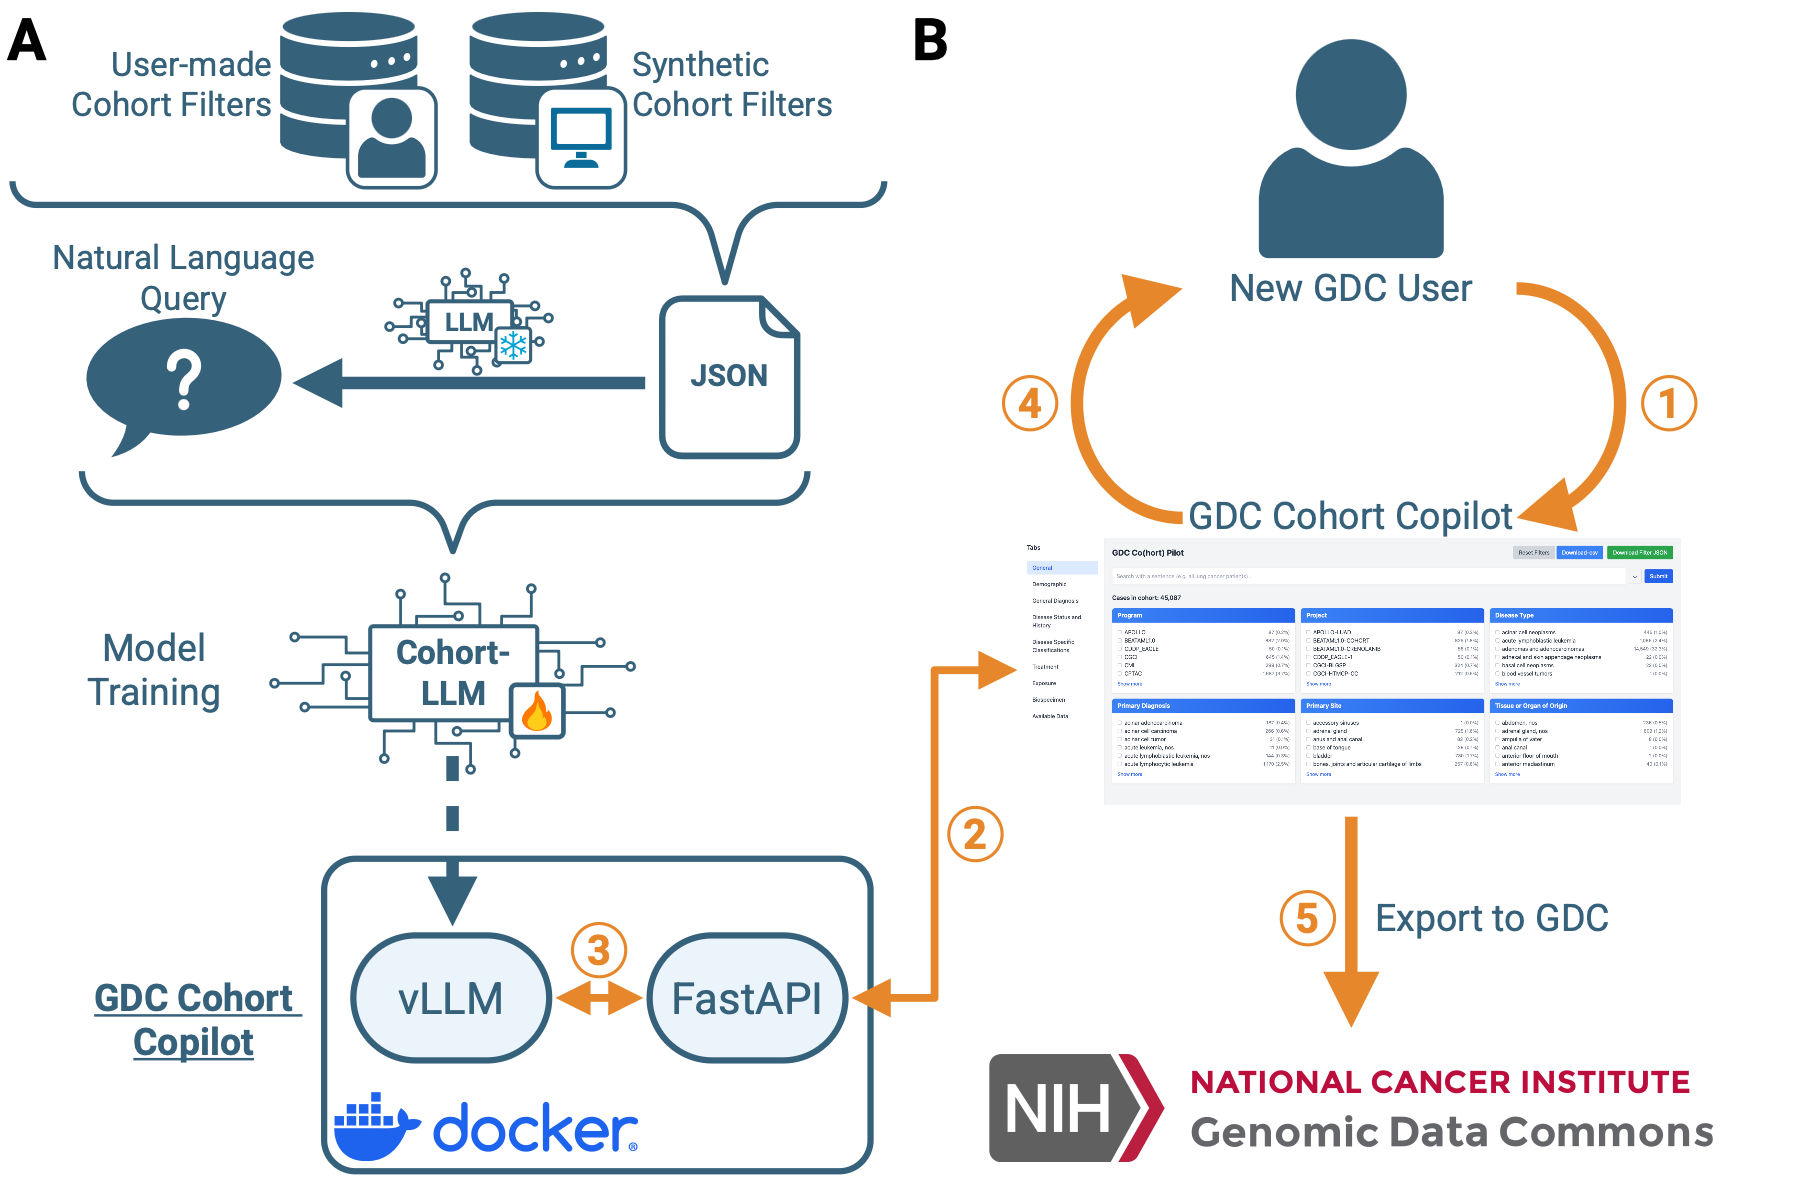
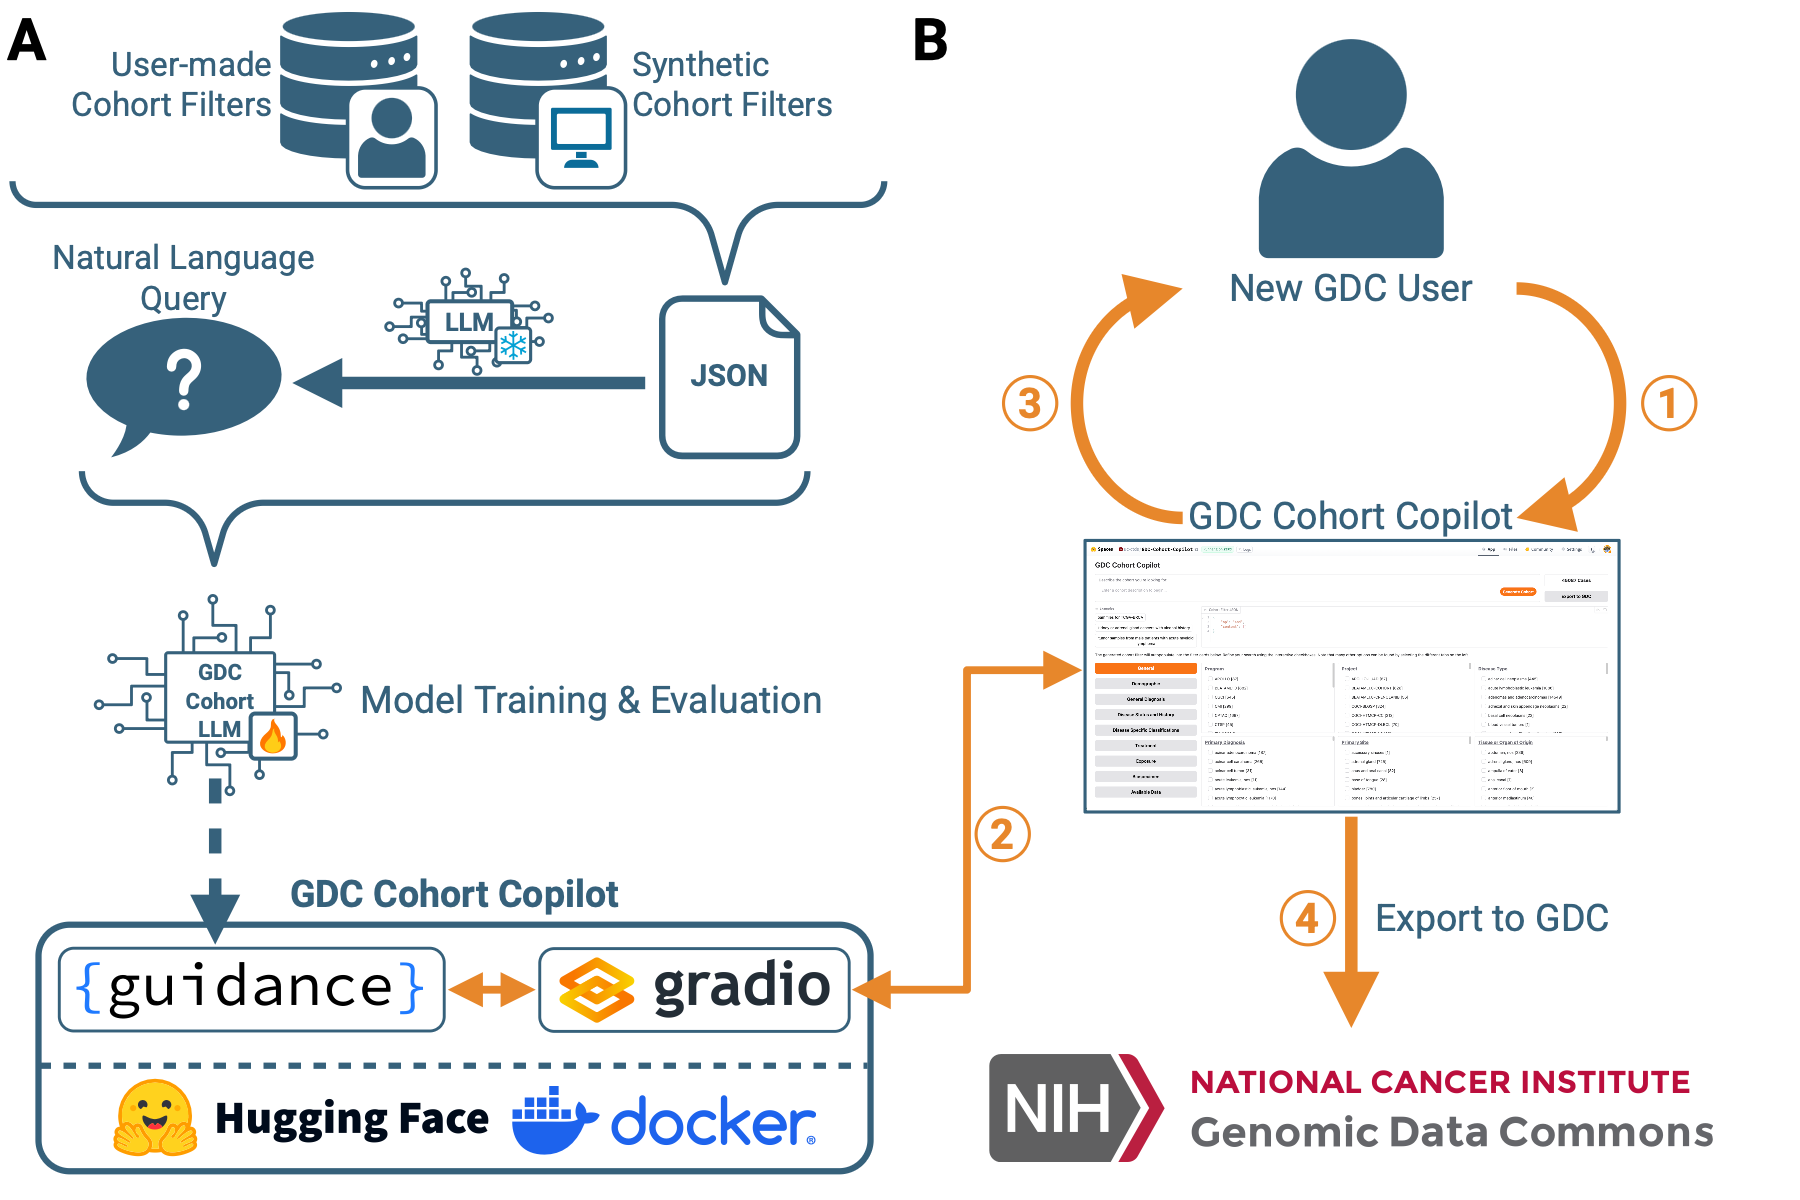
update docs

diff --git a/README.md b/README.md
@@ -1,21 +1,33 @@
 # GDC Cohort Copilot
 
-**GDC Cohort Copilot** is an AI copilot tool to assist in the curation of cohorts from the NCI GDC using natural language. We share GDC Cohort Copilot as a containerized web app backed by a locally served LLM. The container is available at: [https://quay.io/repository/cdis/gdc-cohort-copilot](https://quay.io/repository/cdis/gdc-cohort-copilot).
+**GDC Cohort Copilot** is an AI copilot tool to assist in the curation of cohorts from the NCI GDC using natural language. We share GDC Cohort Copilot as a containerized Gradio app on HuggingFace Spaces available at: [https://huggingface.co/spaces/uc-ctds/GDC-Cohort-Copilot](https://huggingface.co/spaces/uc-ctds/GDC-Cohort-Copilot).
 
-We recommend using `docker` to run the GDC Cohort Copilot container. Run the command below before opening http://localhost:8000 in a web browser:
-```bash
-docker run -it --rm -p 8000:8000 --runtime nvidia --gpus all quay.io/cdis/gdc-cohort-copilot:latest
+The implementation of the web app can be found in the git submodule at: [`app`](./app)
+
+### Run Locally
+
+The containerized Gradio app can be run locally using `docker`. The docker image is available at the following URL:
+```
+registry.hf.space/uc-ctds-gdc-cohort-copilot
 ```
 
-* Our image requires GPU acceleration to run:
-    * Install [nvidia-container-toolkit](https://docs.nvidia.com/datacenter/cloud-native/container-toolkit/latest/install-guide.html) if not already installed.
-    * Please refer to the `docker run` documentation on [accessing GPUs](https://docs.docker.com/reference/cli/docker/container/run/#gpus) for additional details.
-* Any additional arguments after the image name are passed to `vllm serve`. The only limitation is that the vLLM model and port arguments should not be overridden.
-* The app runs on port `8000` within the container, however if port `8000` is occupied on the host, you can remap it. Refer to the `docker run` documentation on [host/container port mapping](https://docs.docker.com/reference/cli/docker/container/run/#publish) for details.
+To run the app locally, run the following before opening `http://localhost:7860` in a web browser:
+```bash
+docker run -it --rm -p 7860:7860 registry.hf.space/uc-ctds-gdc-cohort-copilot:latest python app.py
+```
+* The app runs on port `7860` within the container, however if this port is occupied on the host, the port can be remapped on the host using the `p` flag. Refer to the `docker run` documentation on [host/container port mapping](https://docs.docker.com/reference/cli/docker/container/run/#publish) for details.
 * If serving remotely, you will need to ssh tunnel from your local to the remote host before being able to open the app in your web browser:
     ```bash
-    ssh -NL 8000:localhost:8000 <user>@<remote>
+    ssh -NL 7860:localhost:7860 <user>@<remote>
     ```
+
+Model inference may be sped up by using GPU acceleration, though is not required:
+```bash
+docker run -it --rm -p 7860:7860 --runtime nvidia --gpus all registry.hf.space/uc-ctds-gdc-cohort-copilot:latest python app.py
+```
+* GPU acceleration requires installing [nvidia-container-toolkit](https://docs.nvidia.com/datacenter/cloud-native/container-toolkit/latest/install-guide.html).
+* On multi-GPU hosts, restricting the container to specific GPUs can be controlled with the `--gpus` flag. Please refer to the `docker run` documentation on [accessing GPUs](https://docs.docker.com/reference/cli/docker/container/run/#gpus) for additional details.
+
 
 # Method
 
@@ -23,14 +35,13 @@ docker run -it --rm -p 8000:8000 --runtime nvidia --gpus all quay.io/cdis/gdc-co
 
 Overview of GDC Cohort Copilot implementation and user workflow:
 <ol type="A">
-  <li>Implementation of GDC Cohort Copilot involves training the GDC Cohort LLM to translate from a natural language query of a cohort to the cohort filter JSON. The cohort JSONs are derived from datasests of real user-made cohorts or synthetically generated cohorts. The paired natural language queries are generated by a frozen LLM using the cohort JSONs. The final trained GDC Cohort LLM model is packaged with a vLLM inference server and FastAPI web app inside a docker container.</li>
-  <li>The workflow of a new GDC user with the GDC Cohort Copilot involves:</li>
+  <li>Implementation of GDC Cohort Copilot involves training the GDC Cohort LLM to translate from a natural language query of a cohort to the cohort filter JSON. The cohort JSONs are derived from datasests of real user-made cohorts or synthetically generated cohorts. The paired natural language queries are generated by a frozen LLM using the cohort JSONs. The final trained GDC Cohort LLM model is served in a containerized Gradio app that exposes a GDC Cohort Builder-like interface running on HuggingFace Spaces.</li>
+  <li>A user curates their desired cohort using the GDC Cohort Copilot by:</li>
   <ol type="1">
     <li>Inputting a natural language description of a desired cohort</li>
-    <li>An automatic API request to the web app server with the query</li>
-    <li>Generation of the corresponding cohort filter by GDC Cohort LLM</li>
-    <li>Iterative and interactive refinement of the cohort by the user</li>
-    <li>Outputting the curated cohort to the NCI GDC</li>
+    <li>which is automatically passed to GDC Cohort LLM.</li>
+    <li>The resulting generated cohort filter is automatically populated back into the interface, allowing the user to manually refine their cohort before</li>
+    <li>exporting the curated cohort to the NCI GDC.</li>
   </ol>
 </ol>
 
@@ -49,7 +60,6 @@ In order, the steps for our experiments are:
 1. [Model Training and Inference](./gdc-cohort-llm)
 1. [OpenAI Comparison](./openai-prompting)
 1. [Evaluation](./evaluation)
-1. [Containerization](./docker)
 
 # Citation
 
@@ -57,7 +67,7 @@ In order, the steps for our experiments are:
 @article{song2025gdc,
   title={GDC Cohort Copilot: An AI Copilot for Curating Cohorts from the Genomic Data Commons},
   author={Song, Steven and Subramanyam, Anirudh and Zhang, Zhenyu and Venkat, Aarti and Grossman, Robert L},
-  journal={TODO},
+  journal={arXiv preprint arXiv:2507.02221},
   year={2025}
 }
 ```
